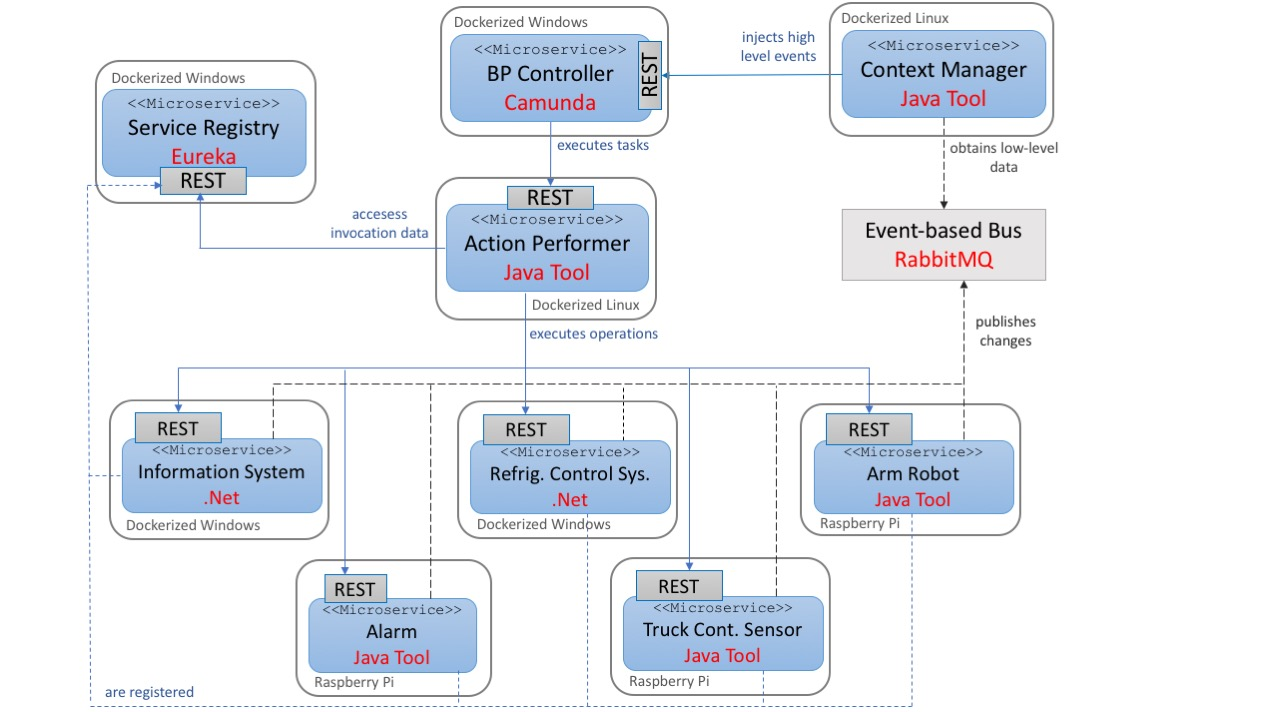
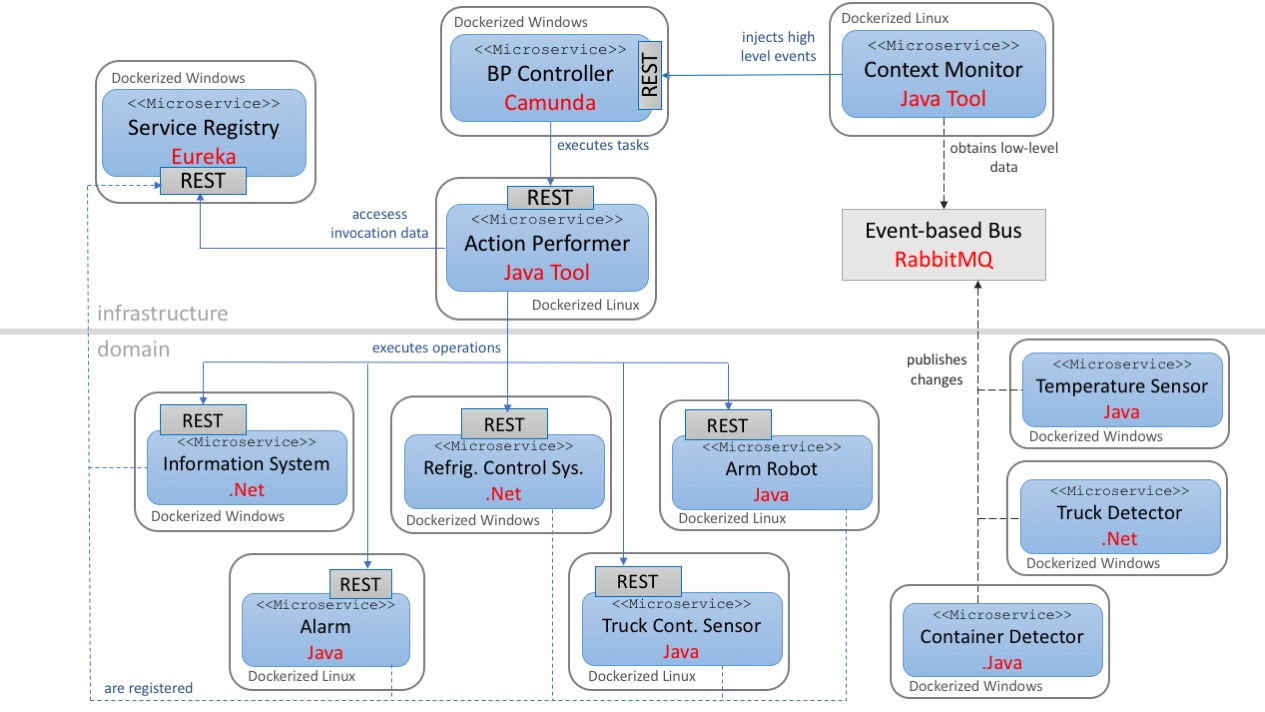
Readme updated

Changed region(s): [[0.0, 0.4326, 1.0, 1.0], [0.6783, 0.0618, 0.8324, 0.1236], [0.0617, 0.9579, 0.1542, 0.9888]]

diff --git a/README.md b/README.md
@@ -34,10 +34,11 @@ Besides this first product control, a second one is performed over a sample in t
 
 # Implementation
 
-This implementation is composed by 9 microservices:
+This implementation is composed by 12 microservices:
 
 * 3 microservices that manage IoT devices through Java Technology: Alarm, Robot, and TruckContainerSensor. These microservices are endowed with the functionality provided by the IoTDevice module (see the infrastruture repository introduce above), which provide the funcionality to allow the BP Controller to manage IoT devices throw a REST API.
 * 2 microservices that manage and IoT devices and the information system of the organization through .Net Technology: RegrigeratorControlSystem and InformationSystem. These microservices are .Net apps implemented from scratch and implements the funcionality to allow the BP Controller to manage IoT devices throw a REST API in an ad-hoc way.
+* 3 microservices that manage sensors and publish context data in the Event Bus: ContainerDetector and TemperatureSensor, implemented in Java; and TruckDetector, implemented in .Net.
 * 1 infrastucture microservices: an Eureka service registry
 * 3 microservices for supporing the execution of IoT Enhanced Business Processes: the BP Controller, the Action Peformer and the Context Manager. See the infrastruture repository introduce above for additional informaión about these microservices.
 
@@ -67,22 +68,28 @@ To test the example you can create a IoT Enhanced Business Processes from scratc
 
 # Executing an IoT Enhanced Business Process
 
-The IoT Enhanced Business Process of the example is started when the Context Manager injects the high-level event Container Arrival. To do so, the proper low-level context data should be published in an event-based by supported by RabbitMQ server. Thus, this example assumes you have [RabbitMQ](https://www.rabbitmq.com/) installed.
+The IoT Enhanced Business Process of the example is started when the Context Monitor injects the high-level event Container Arrival. To do so, the proper low-level context data should be published in an event-based bus supported by RabbitMQ server. Thus, this example assumes you have [RabbitMQ](https://www.rabbitmq.com/) installed.
 
-The low-level context data should be publishes in JSON format and is used by the Context Manager to infer that a container is within the WareHouse. For example, considering that a Bluetooth beacon is installed to detect a container, this low-level data could be as follows:
+The low-level context data should be publishes in JSON format and is used by the Context Monitor to infer that a container is within the WareHouse. For example, considering that an Object Detector is installed to detect a container, this low-level data could be as follows:
 
 ```json
 {
-	"device":"BluetoothBeacon",
-	"id": "containerReception",
-	"properties":[
+	"device":"ObjectDetector",
+	"id": "containerReceptionDetector",
+	"property": "Container Availability",
+	"feature": "Container",
+	"dataProps":[
 			{
 				"name":"status",
 				"value" true
+			},
+			{
+				"name":"timestamp",
+				"value" "2020-10-12 10:54:42.997"
 			}
 	]
 	
 }
 ```
 
-This context-data must be pubished in a RabbitMQ queue named "context". In order to test how this context data is processed, the Java application ContextDataTestingApp is provided. This application allow you to publish low-level context data as the example presented above in the RabbitMQ queue.
+This context-data is pubished in by the business microservice ContainerDetector.
